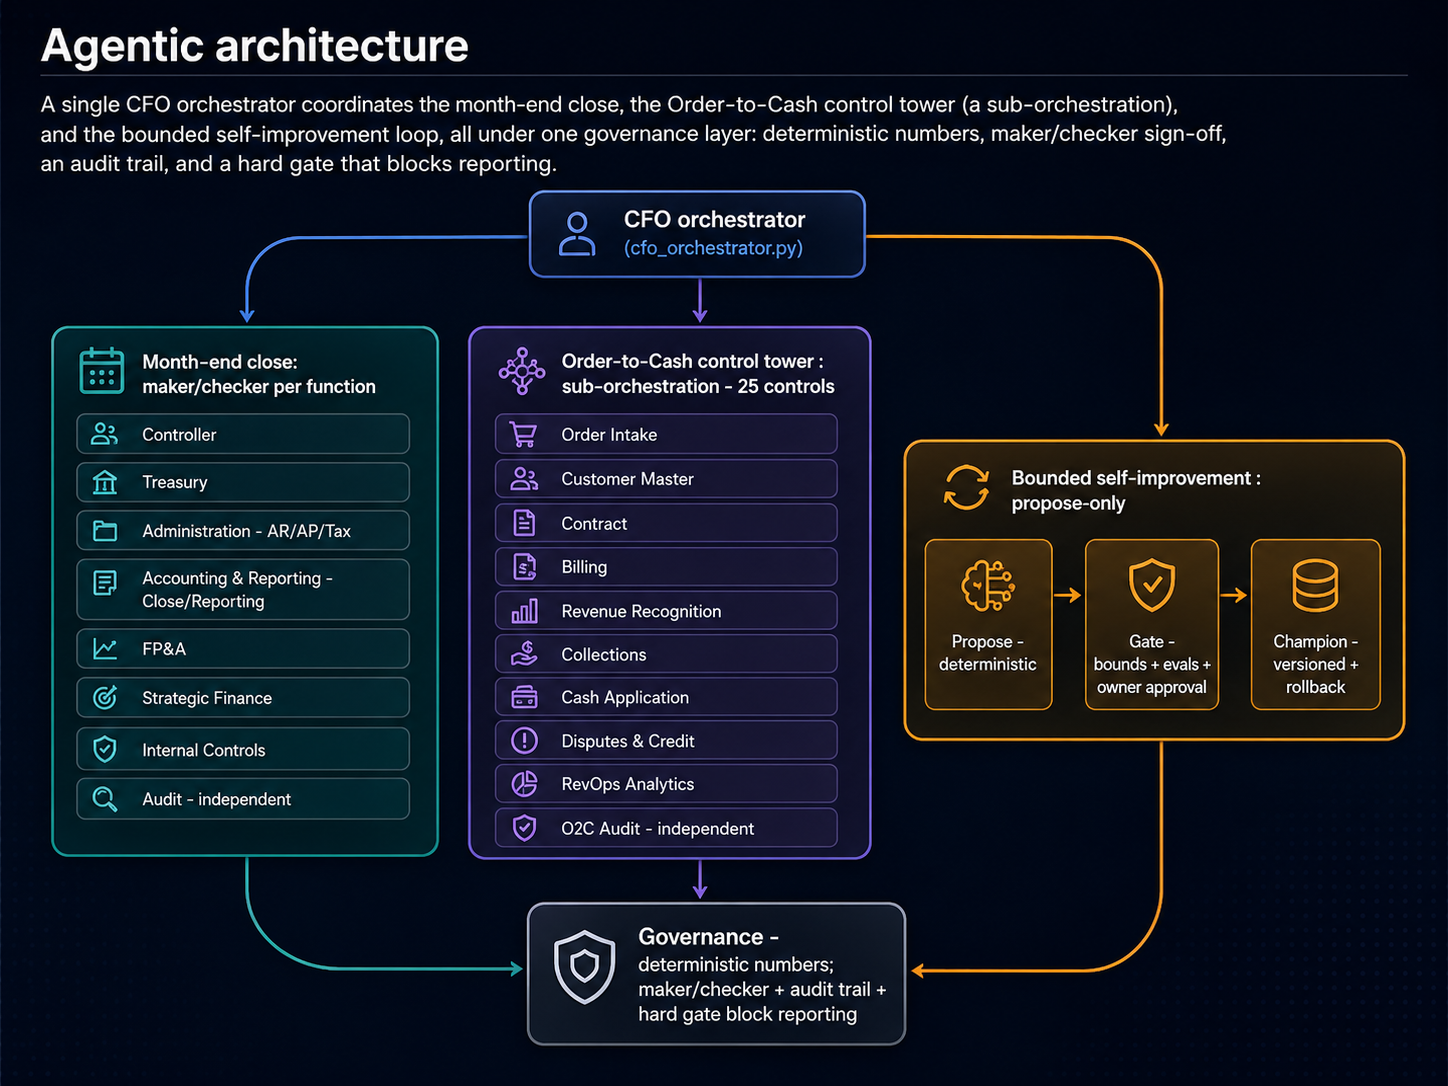
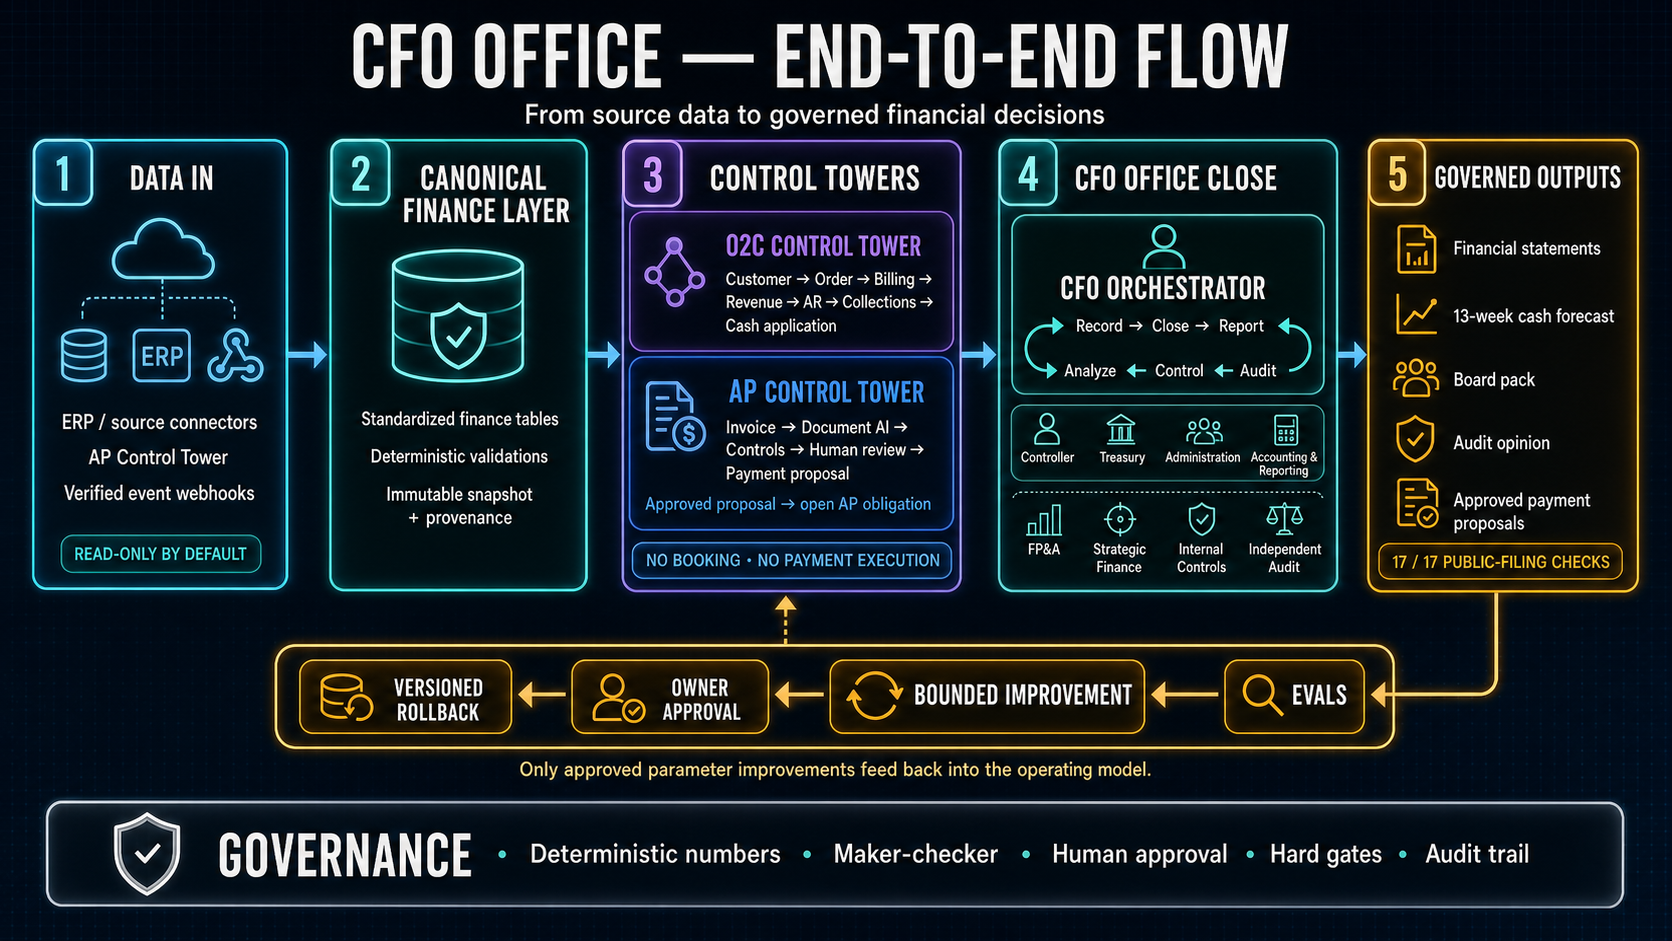
Refresh README with end-to-end CFO Office flow

diff --git a/README.md b/README.md
@@ -1,19 +1,22 @@
-# AI Finance Portfolio
+# Multi-Agent CFO Office — Finance AI Engineering Portfolio
 
-Finance AI engineering projects: live API integration, a custom MCP
-connector for a multi-entity finance system, a multi-agent month-end close
-model with reliability controls, and a multi-agent CFO office that runs the
-close over a shared, auditable state. The deterministic numbers are also
-validated against real public filings: they tie **17 of 17** to dLocal
-(NASDAQ: DLO) reported FY2024 and FY2025 figures, statement-level, public data
-only. Built by a finance operator with 17 years of experience, now building the
-systems.
+An inspectable Finance AI operating model that combines source adapters, a
+custom MCP connector, a multi-agent CFO office, an Order-to-Cash control tower,
+and an approved-proposal feed from AP Control Tower. The workflows operate over
+a shared canonical and auditable state, with deterministic financial engines,
+maker-checker controls, human approval gates, and bounded self-improvement. The
+statement-level math is also validated against real public filings: it ties
+**17 of 17** figures to dLocal (NASDAQ: DLO) reported FY2024 and FY2025 figures,
+using public data only. Built by a finance operator with 17 years of experience,
+now building the systems.
 
-> **▶️ Live demo (instant, no signup):** click through the whole operating model end to
-> end, in the order data flows (ERP data pull → Order-to-Cash control tower → month-end
-> close → evals → self-improvement), at
-> **[ignacio-viola-finance-agentic-workflow.streamlit.app](https://ignacio-viola-finance-agentic-workflow.streamlit.app/)**.
-> Every number is computed in code; the page replays saved runs, so it needs no API key.
+> **▶️ Live demo on Cloud Run (no signup):** follow the operating model end to
+> end — **ERP data pull → month-end close with O2C and AP control towers → evals →
+> bounded self-improvement** — at
+> **[cfo-office-demo-597507822266.us-central1.run.app](https://cfo-office-demo-597507822266.us-central1.run.app/)**.
+> Every number is computed in code; the app replays deterministic saved runs, so
+> it needs no API key. The first request after inactivity may take a few seconds
+> while the scale-to-zero service starts.
 
 > **Validated against real public filings:** the deterministic statement-level math
 > now ties **17 of 17** figures to dLocal (NASDAQ: DLO) reported FY2024/FY2025
@@ -29,29 +32,34 @@ systems.
 > **See it run:** [`CASE-STUDY.md`](CASE-STUDY.md) walks a month-end close end to end
 > on synthetic data (every figure computed in code).
 
-## Agentic architecture
+## End-to-end CFO Office flow
 
-A single CFO orchestrator coordinates the month-end close, the Order-to-Cash
-control tower (a sub-orchestration), and the bounded self-improvement loop, all
-under one governance layer: deterministic numbers, maker/checker sign-off, an
-audit trail, and a hard gate that blocks reporting.
+The flow begins with read-only source ingestion and approved AP proposals mapped
+into a shared canonical finance layer. The O2C and AP control towers produce
+governed receivable and payable states; the CFO orchestrator then coordinates the
+eight specialist functions through **record → close → report → analyze → control
+→ audit**. The resulting statements, cash forecast, board pack, audit opinion,
+and payment proposals remain subject to deterministic controls, maker-checker
+review, human approval, hard gates, and a complete audit trail. Evals feed a
+bounded improvement loop, but only owner-approved parameter changes can return
+to the operating model.
 
-![Agentic architecture: a single CFO orchestrator coordinating the month-end close, the Order-to-Cash control tower (a sub-orchestration), and the bounded self-improvement loop under one governance layer of deterministic numbers, maker/checker sign-off, an audit trail, and a hard gate that blocks reporting.](docs/agentic-architecture.png)
+![End-to-end Multi-Agent CFO Office flow: read-only sources and AP proposals enter the canonical finance layer; O2C and AP control towers feed the CFO-orchestrated close; eight specialist finance functions produce governed statements, forecasts, board reporting, audit opinions, and payment proposals; evals and owner-approved bounded improvement close the loop under deterministic controls, maker-checker review, human approval, hard gates, and an audit trail.](docs/agentic-architecture.png)
 
 ### Data sources (swappable)
 
 The engine reads a **canonical layer**, never a vendor's objects. Any source maps
 into the same canonical contract (the columns `finance_core` already reads), so
-swapping sources never touches the engine. QuickBooks Online (sandbox) is wired
-today; NetSuite / SAP / Odoo / Zoho would each be one more `SourceConnector`. See
-[`sources/`](sources/README.md).
+swapping sources never touches the engine. QuickBooks Online (sandbox) and the
+bounded AP approved-proposal adapter are wired today; NetSuite / SAP / Odoo /
+Zoho would each be one more `SourceConnector`. See [`sources/`](sources/README.md).
 
 ![Data sources (swappable): QuickBooks Online (sandbox) reaches the engine through a read-only OAuth2 adapter and a mapper that rewrites its objects into canonical tables; the synthetic Lumen source and future connectors (NetSuite / SAP / Odoo / Zoho) feed those same canonical tables, which use the exact columns finance_core already reads. The canonical layer fans out to deterministic validations (balance foots, AR ties, no future postings) and an immutable raw-plus-canonical-plus-manifest snapshot hashed with sha256, and is read directly by both finance_core (the CFO and O2C engine) and the source-agnostic MCP tools.](docs/data-sources.svg)
 
 #### AP Control Tower — approved accounts-payable feed
 
 **AP Control Tower** (an independent product and repository,
-`ignacioviola1984-spec/ap-control-tower`) turns supplier invoices into a
+[`ignacioviola1984-spec/ap-control-tower`](https://github.com/ignacioviola1984-spec/ap-control-tower)) turns supplier invoices into a
 human-approved payment **proposal** and exports it (CSV/Excel). A bounded,
 read-only adapter ([`sources/ap_control_tower/`](sources/ap_control_tower/README.md))
 maps each approved row into a canonical **open** `ap_invoices` record — with
@@ -249,10 +257,10 @@ audit trail.
 
 ### Operating Model Live Demo, v2 (`cfo-demo-v2/`)
 A polished, HR-friendly walkthrough of the full operating model, following the data
-lifecycle: **ERP data pull → Order-to-Cash control tower → month-end close → evals →
-self-improvement**. It replays saved runs (every figure computed in code), so it is
-instant, free, and needs no API key. Live:
-**[ignacio-viola-finance-agentic-workflow.streamlit.app](https://ignacio-viola-finance-agentic-workflow.streamlit.app/)**.
+lifecycle: **ERP data pull → month-end close with O2C and AP control towers → evals →
+bounded self-improvement**. It replays saved runs (every figure computed in code),
+so it needs no API key. Live on Cloud Run:
+**[cfo-office-demo-597507822266.us-central1.run.app](https://cfo-office-demo-597507822266.us-central1.run.app/)**.
 The deterministic snapshots it reads are regenerated offline by `build_snapshots.py`.
 Details: [`cfo-demo-v2/README.md`](cfo-demo-v2/README.md).
 